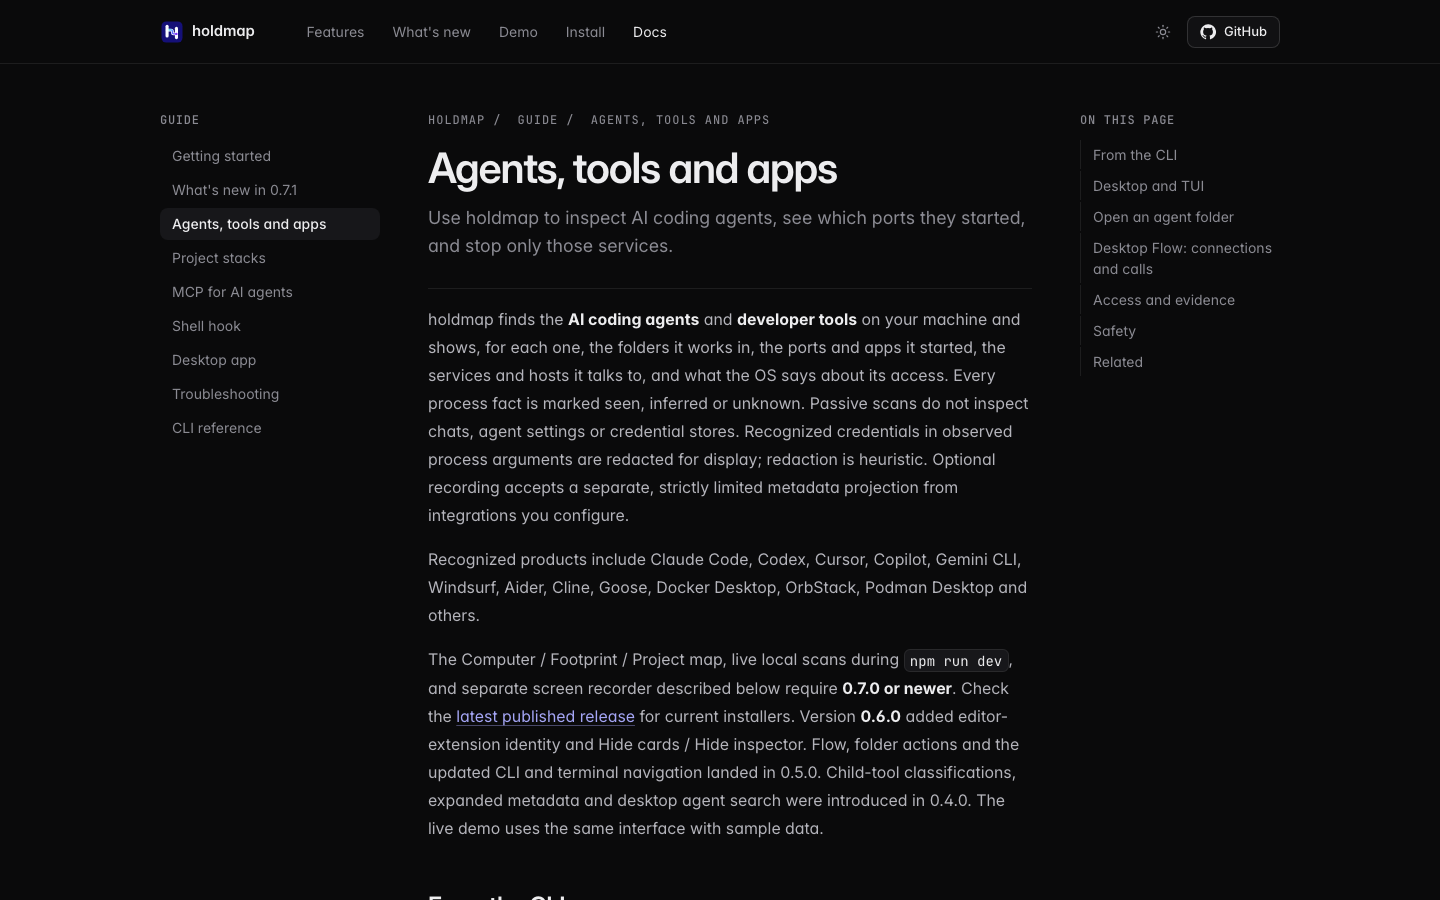
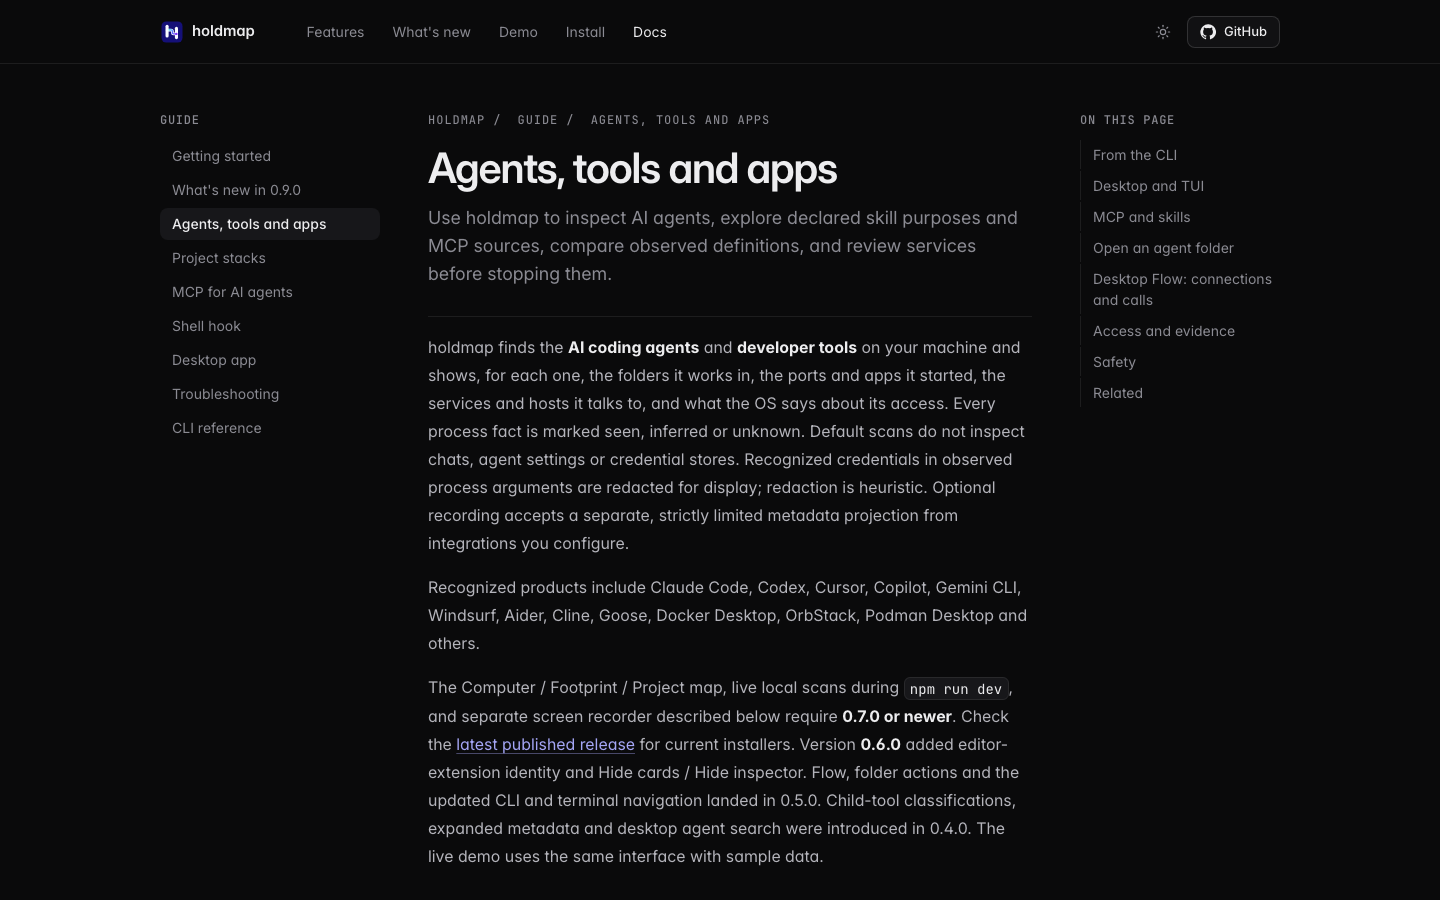
docs(site): complete 0.9.0 website presentation (#65)

diff --git a/site/src/lib/site.ts b/site/src/lib/site.ts
@@ -16,8 +16,6 @@ export const issuesUrl = `${repoUrl}/issues`;
 
 export const tagline =
   "See which ports, agents and tools are running — and stop the right thing safely.";
-export const description =
-  "holdmap maps ports, AI agents and projects, stops reviewed services, and records screens locally. CLI, TUI, desktop and MCP for macOS, Linux and Windows.";
 
 /** Stars are only shown once the number says something. */
 const STARS_SHOWN_FROM = 25;
@@ -43,6 +41,12 @@ const [release, repo] = await Promise.all([github<unknown>("/releases/latest"), 
 
 /** Publishing requires a validated stable release; local builds can fall back to version.txt. */
 export const version = publishedReleaseVersion({ sourceVersion: fileVersion, release, repositoryUrl: repoUrl, offline, requireRelease });
+// The current highlights describe 0.9.0. Keep metadata and visible availability in agreement.
+const [publishedMajor, publishedMinor] = version.split(".").map(Number);
+export const releaseHighlightsPublished = publishedMajor > 0 || publishedMinor >= 9;
+export const description = releaseHighlightsPublished
+  ? "holdmap maps ports, agents, MCP and skills. Stop services safely, explore capabilities and save local video or PNGs on macOS, Linux and Windows."
+  : "holdmap maps ports, agents, MCP and skills. Preview 0.9.0's capability explorer and PNG snapshots. Local tools for macOS, Linux and Windows.";
 export const stars = repo?.stargazers_count && repo.stargazers_count >= STARS_SHOWN_FROM ? repo.stargazers_count : null;
 
 // Keep the chosen release label, filenames and checksums together while a new release builds.

diff --git a/site/README.md b/site/README.md
@@ -38,12 +38,30 @@ published release stays the download target while a newer source version is asse
 Local builds can set `HOLDMAP_SITE_OFFLINE=1` for a deterministic `version.txt` fallback;
 combining offline and required-release modes fails. `npm run test:release` checks this policy.
 
+To review the actual publication state, build with the same release requirement as Pages:
+
+```sh
+env -u HOLDMAP_SITE_OFFLINE HOLDMAP_SITE_REQUIRE_RELEASE=1 npm run build
+npm test
+npm run test:demo
+node scripts/capture-screenshots.mjs
+```
+
+This resolves published downloads independently of the checked-out source. During 0.9.0
+preparation it shows published 0.8.0 downloads, pending 0.9.0 highlights, preview wording in
+metadata and the published feature set in structured data. Offline builds instead use the
+source version for downloads and availability, including metadata and feature declarations.
+That preview can show the 0.9.0 published presentation before its installers exist; use the
+required-release build for publication-state evidence and public-site captures.
+
 `npm test` checks the release policy, built links, asset budgets and SEO. `npm run check:seo` checks the static
 HTML without executing page scripts: unique metadata, canonical/social URLs, real social
 image dimensions, page and breadcrumb schemas, sitemap coverage, noindex exclusions and a
 hostile-text JSON-LD regression. It reuses the desktop's locked DOM-parser dependency.
 The existing Pages workflow runs `npm test` on pull requests; publishing follows its deployment
-policy. Building a pull request does not publish it.
+policy. Building a pull request does not publish it. Only `main` pushes and authorized
+`main`-context workflow dispatches can deploy; the release dispatch separately validates
+its published `source_tag`. Updating a release PR leaves the public site in place until merge.
 
 ## Release information
 
@@ -55,14 +73,19 @@ Download labels and commands resolve the published stable release independently 
 Website-only edits published after a release deploy through the normal `main` push workflow,
 and `build-info.json` records their actual source commit. Dispatching with `source_tag` instead
 builds that release tag's website source and intentionally excludes later website edits.
+Pages writes `build-info.json` after the build; a local `npm run build` does not generate
+deployment identity or publish files.
 
 ## Website snapshots
 
-These captures show the current website build at 1440×900, with a 390×900 mobile guide
-view. The homepage's sample-data recording is paused on its first frame; no machine is scanned.
+These captures show a production-mode website build at 1440×900, with a 390×900 mobile guide
+view. Release highlights use 1440×1100 desktop and 390×1800 mobile captures so all three cards
+and the publication note fit in one image. The release examples show 0.9.0 preparation with published
+0.8.0 downloads. The homepage's sample-data recording is paused on its first frame; no machine is scanned.
 After building the site, refresh them with `node scripts/capture-screenshots.mjs` from `site/`.
 The script manages its own preview server and Chromium, waits for content and fonts, and checks
 themes, page errors, overflow and a 600 KB budget for each PNG.
+Focused release captures also assert that the whole highlights section fits in the viewport.
 
 Homepage, dark:
 
@@ -71,6 +94,18 @@ Homepage, dark:
 Homepage, light:
 
 ![Holdmap homepage in light theme](../docs/screenshots/site-home-light.png)
+
+Release highlights and publication status, dark:
+
+![Release highlights show PNG snapshots, the readable graph and capability explorer with pending installer status](../docs/screenshots/site-release-dark.png)
+
+Release highlights and publication status, light:
+
+![Light-theme release highlights keep the pending 0.9.0 status separate from published 0.8.0 downloads](../docs/screenshots/site-release-light.png)
+
+Mobile release highlights, light:
+
+![The full release highlights section at 390 pixels wide, including all three feature cards and the publication note](../docs/screenshots/site-release-mobile-light.png)
 
 Guide and breadcrumb navigation, dark:
 
@@ -83,6 +118,14 @@ Guide and breadcrumb navigation, light:
 Mobile guide and breadcrumb navigation, light:
 
 ![Agents guide on mobile in light theme](../docs/screenshots/site-guide-mobile-light.png)
+
+Guide image layout, light:
+
+![Guide prose and an embedded terminal screenshot fit their desktop content column](../docs/screenshots/site-guide-images-light.png)
+
+Guide image layout on mobile, light:
+
+![Guide screenshot and prose stay within the narrow mobile content column](../docs/screenshots/site-guide-images-mobile-light.png)
 
 Implementation references: [Google titles](https://developers.google.com/search/docs/appearance/title-link),
 [descriptions](https://developers.google.com/search/docs/appearance/snippet),
